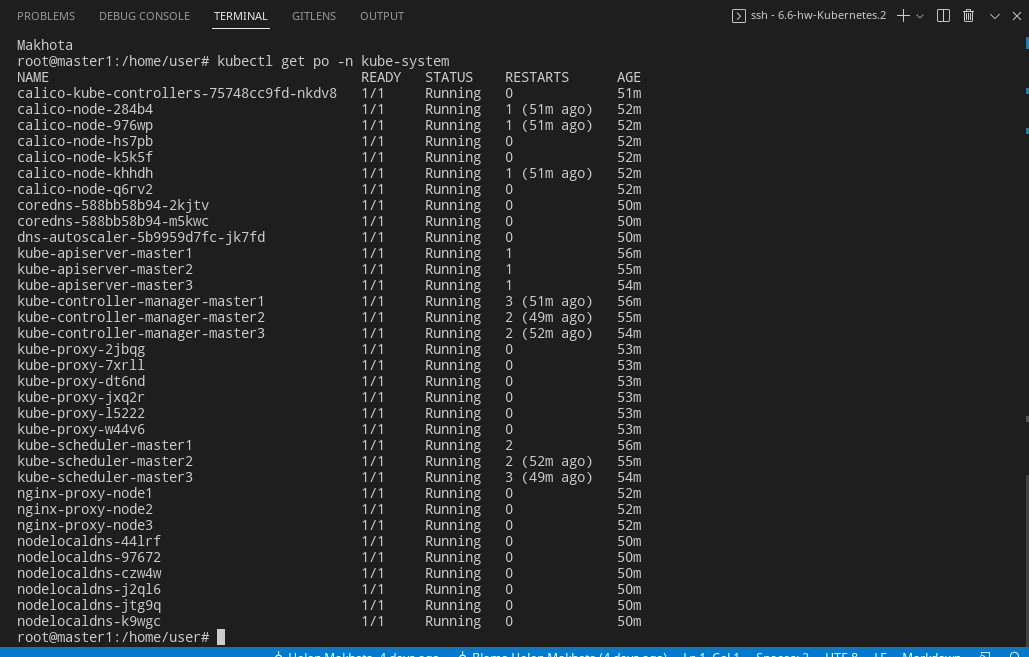
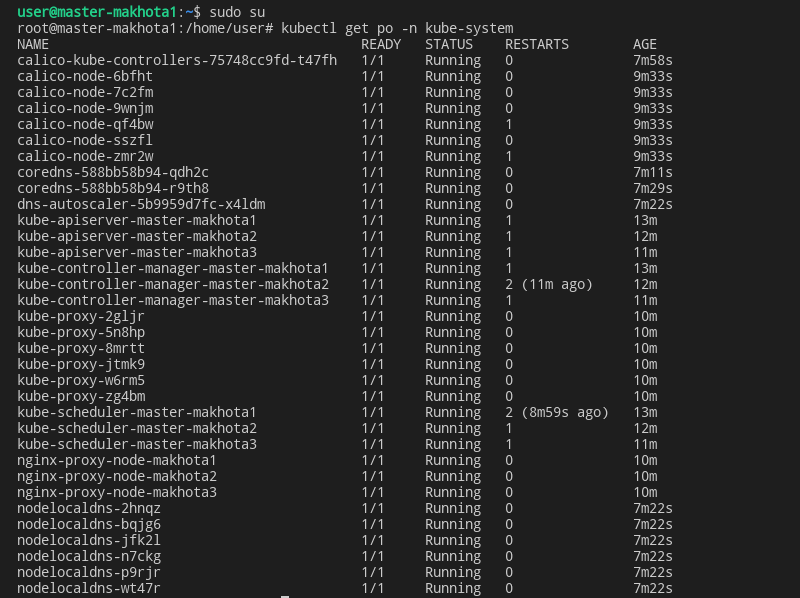
update readme add task 2

diff --git a/README.md b/README.md
@@ -22,7 +22,24 @@
 
 Создала 6 машин с помощью [terraform](terraform/main.tf)
 
-Установила kubernetes с использованием  ansible-playbook
+Поставила [docker](docker.sh).
+
+Поставила `kubeadm`
+
+```bash
+
+# Настраиваем репозиторий:
+sudo curl -fsSLo /usr/share/keyrings/kubernetes-archive-keyring.gpg https://packages.cloud.google.com/apt/doc/apt-key.gpg
+echo "deb [signed-by=/usr/share/keyrings/kubernetes-archive-keyring.gpg] https://apt.kubernetes.io/ kubernetes-xenial main" | sudo tee /etc/apt/sources.list.d/kubernetes.list
+
+# Устанавливаем пакет:
+sudo apt-get update
+sudo apt-get install -y kubeadm
+
+```
+
+Установила kubernetes с использованием  ansible-playbook 
+## `kubespray`
 
 https://github.com/kubernetes-sigs/kubespray
 
@@ -41,29 +58,30 @@ cp -r ./inventory/sample/ ./inventory/myinv
 # ## different ip than the default iface
 # ## We should set etcd_member_name for etcd cluster. The node that is not a etcd member do not need to set the value, or can set the empty string value.
 [all]
-master1 ansible_host=10.128.0.103 ansible_ssh_private_key_file=/home/user/.ssh/id_rsa ansible_user=user ansible_python_interpreter=/usr/bin/python3
-master2 ansible_host=10.128.0.10 ansible_ssh_private_key_file=/home/user/.ssh/id_rsa ansible_user=user ansible_python_interpreter=/usr/bin/python3
-master3 ansible_host=10.128.0.11 ansible_ssh_private_key_file=/home/user/.ssh/id_rsa ansible_user=user ansible_python_interpreter=/usr/bin/python3
-node1 ansible_host=10.128.0.200 ansible_ssh_private_key_file=/home/user/.ssh/id_rsa ansible_user=user ansible_python_interpreter=/usr/bin/python3
-node2 ansible_host=10.128.0.201 ansible_ssh_private_key_file=/home/user/.ssh/id_rsa ansible_user=user ansible_python_interpreter=/usr/bin/python3
-node3 ansible_host=10.128.0.202 ansible_ssh_private_key_file=/home/user/.ssh/id_rsa ansible_user=user ansible_python_interpreter=/usr/bin/python3
-
+master-makhota1 ansible_host=10.128.0.103 ansible_ssh_private_key_file=/home/user/.ssh/id_rsa ansible_user=user ansible_python_interpreter=/usr/bin/python3
+master-makhota2 ansible_host=10.128.0.10 ansible_ssh_private_key_file=/home/user/.ssh/id_rsa ansible_user=user ansible_python_interpreter=/usr/bin/python3
+master-makhota3 ansible_host=10.128.0.11 ansible_ssh_private_key_file=/home/user/.ssh/id_rsa ansible_user=user ansible_python_interpreter=/usr/bin/python3
+node-makhota1 ansible_host=10.128.0.200 ansible_ssh_private_key_file=/home/user/.ssh/id_rsa ansible_user=user ansible_python_interpreter=/usr/bin/python3
+node-makhota2 ansible_host=10.128.0.201 ansible_ssh_private_key_file=/home/user/.ssh/id_rsa ansible_user=user ansible_python_interpreter=/usr/bin/python3
+node-makhota3 ansible_host=10.128.0.202 ansible_ssh_private_key_file=/home/user/.ssh/id_rsa ansible_user=user ansible_python_interpreter=/usr/bin/python3
 
 [kube_control_plane]
-master1
-master2
-master3
+master-makhota1
+master-makhota2
+master-makhota3
 
 [etcd]
-master1
-master2
-master3
+master-makhota1
+master-makhota2
+master-makhota3
 
 [kube_node]
-node1
-node2
-node3
-
+node-makhota1
+node-makhota2
+node-makhota3
+# node4
+# node5
+# node6
 
 [calico_rr]
 
@@ -71,6 +89,7 @@ node3
 kube_control_plane
 kube_node
 calico_rr
+
 
 
 ```
@@ -88,29 +107,17 @@ ansible-playbook -i ./inventory/myinv/inventory.ini cluster.yml -b
 ![ansible](img/img202212241.png)
 
 
-На машине master1 перешла под рута `sudo su`, проверила системные поды `kubectl get po -n kube-system`
+На машине `master-makhota1` перешла под рута `sudo su`, проверила системные поды `kubectl get po -n kube-system`
 
 ![kubesystem](img/img202212242.png)
 
 
 Плагин по умолчанию установился  calico.
 
-Поставила [docker](docker.sh).
-
-Поставила `kubeadm`
-
 ```bash
-
-# Настраиваем репозиторий:
-sudo curl -fsSLo /usr/share/keyrings/kubernetes-archive-keyring.gpg https://packages.cloud.google.com/apt/doc/apt-key.gpg
-echo "deb [signed-by=/usr/share/keyrings/kubernetes-archive-keyring.gpg] https://apt.kubernetes.io/ kubernetes-xenial main" | sudo tee /etc/apt/sources.list.d/kubernetes.list
-
-# Устанавливаем пакет:
-sudo apt-get update
-sudo apt-get install -y kubeadm
-
+kubectl get nodes
 ```
-
+![nodes](img/img202212251.png)
 
 ---
 
@@ -136,8 +143,8 @@ spec:
     spec:
       containers:
       - name: master
-        image: bitnami/redis
-        env:
+        image: 
+           env:
          - name: REDIS_PASSWORD
            value: password123
         ports:
@@ -172,6 +179,113 @@ helm repo list
 ```
 
 
+Создание чарта
+
+```bash
+mkdir chart-redis-makhota
+cd ./chart-redis-makhota
+mkdir templates
+touch ./templates/deployment.yaml
+touch ./templates/service.yaml
+touch values.yaml
+touch Chart.yaml
+```
+Вносим данные в файлы
+
+[chart-redis-makhota/Chart.yaml](chart-redis-makhota/Chart.yaml)
+
+```yaml
+
+apiVersion: v2
+name: chart-redis-makhota
+description: A Helm chart for Kubernetes redis
+type: application
+version: 0.1.0
+appVersion: "1.16.0"
+
+```
+
+[chart-redis-makhota/values.yaml](chart-redis-makhota/values.yaml)
+
+```yaml
+
+nameApp: chart-redis-makhota
+
+image: redis:6.0.13
+
+containerPort: 6379
+
+targetPort: 6379
+
+replicaCount: 3
+
+specType: ClusterIP
+
+```
+
+[chart-redis-makhota/templates/deployment.yaml](chart-redis-makhota/templates/deployment.yaml)
+
+
+```yaml
+
+apiVersion: apps/v1
+kind: Deployment
+metadata:
+  name: {{ .Values.nameApp }}
+spec:
+  selector:
+    matchLabels:
+      app: {{ .Values.nameApp }}
+  replicas: {{ .Values.replicaCount }}
+  template:
+    metadata:
+      labels:
+        app: {{ .Values.nameApp }}
+    spec:
+      containers:
+      - name: {{ .Values.nameApp }}
+        image: {{ .Values.image }}
+        ports:
+        - containerPort: {{ .Values.containerPort }}
+
+```
+
+[chart-redis-makhota/templates/service.yaml](chart-redis-makhota/templates/service.yaml)
+
+```yaml
+
+apiVersion: v1
+kind: Service
+metadata:
+  name: {{ .Values.nameApp }}
+spec:
+  type: {{ .Values.ClusterIP }}
+  ports:
+  - port: {{ .Values.containerPort }}
+    targetPort: {{ .Values.targetPort }}
+    name: {{ .Values.nameApp }}
+  selector:
+    app: {{ .Values.nameApp }}
+
+```
+
+Устанавливаем чат
+
+```bash
+
+helm install chart-redis-makhota ./chart-redis-makhota/
+
+```
+
+Проверяем список чатов и работу подов
+
+
+![img202212252](img/img202212252.png)
+
+![img202212253](img/img202212253.png)
+
+![img202212254](img/img202212254.png)
+![img202212255](img/img202212255.png)
 
 
 
